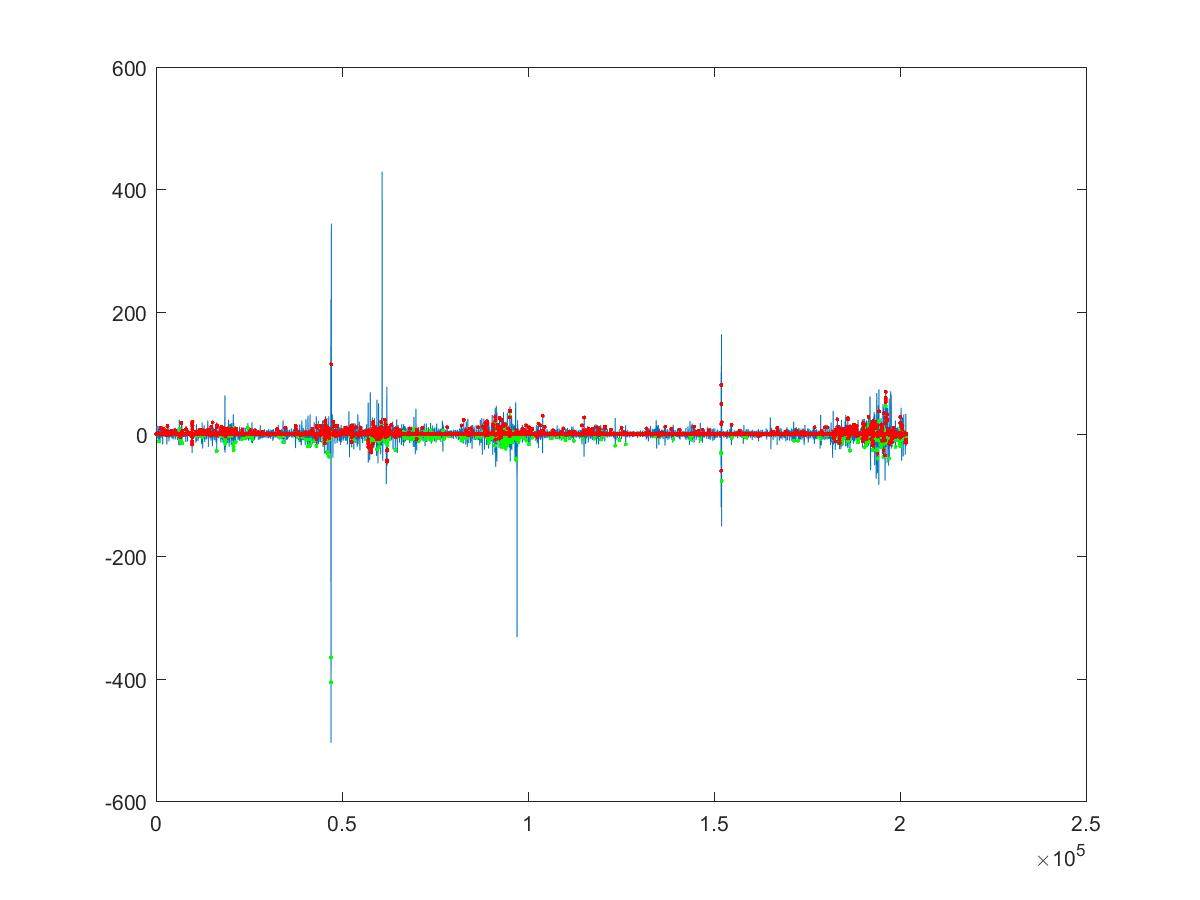
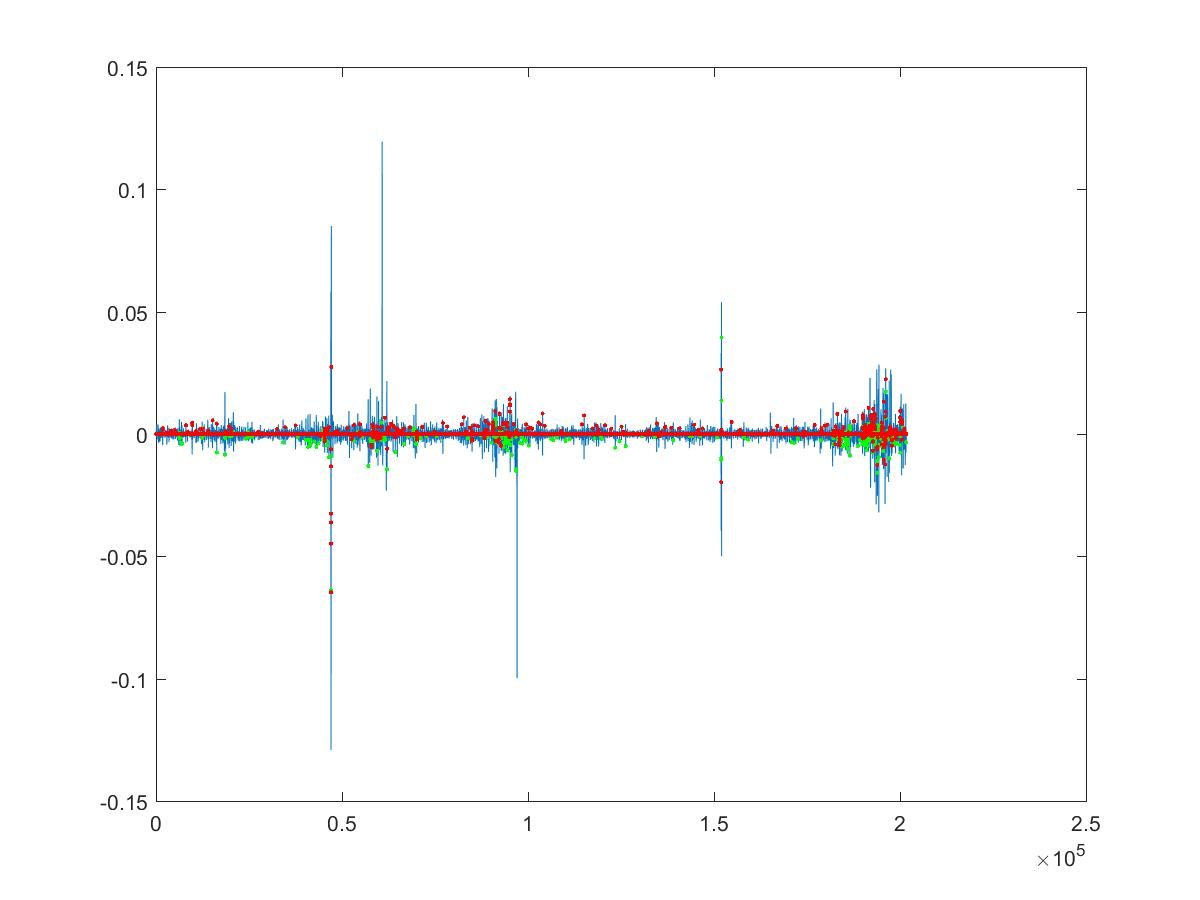
20160426

diff --git a/generate_model.m b/generate_model.m
@@ -1,10 +1,13 @@
-function [M,M0,struct_a,jgd]=generate_model(tag,x,benchmark,upper_critical,regulizer_rate,s,v1,v2)
+function [M,M0,struct_a,jgd,sharpe]=generate_model(tag,x,benchmark,upper_critical,regulizer_rate,s,v1,v2)
     n=size(tag,1);
+   
     [~,~,M0,struct_a,~]=testFeature(tag(1:n/2),x(1:n/2,:),benchmark,upper_critical,1,n/2,regulizer_rate);
     u=n/2+1;
     v=n;
     s=s(u:v,:,:);
     n=v-u+1;
+    tag(tag>100)=100;
+    tag(tag<-100)=-100;
     tag=tag(u:v);
     x=[x(u:v,:)];
     
@@ -23,6 +26,7 @@ function [M,M0,struct_a,jgd]=generate_model(tag,x,benchmark,upper_critical,regul
     %[B,BINT,R,RINT,STATS] = regress(tag,[x,ones(n,1)]);
     %pred=([x,ones(n,1)]*B);
     signal=-(pred<lower_critical)+(pred>upper_critical);
+    signal=signal.*(s(:,3,1)>900).*(s(:,3,1)<1430);
     for i=1:size(signal,1)-1
         if signal(n-i+1)~=0 && signal(n-i)~=0
             signal(n-i+1)=0;
@@ -40,6 +44,7 @@ function [M,M0,struct_a,jgd]=generate_model(tag,x,benchmark,upper_critical,regul
     tot=[long;short];
    
     signal=signal(~isnan(signal));
+    
     profitlong=sum(long>0);
     profitshort=sum(short>0);
     jpg=plot(idx,benchmark(u:v),idx,(signal<0).*benchmark(u:v),'.g',idx,(signal>0).*benchmark(u:v),'.r');
@@ -65,10 +70,13 @@ function [M,M0,struct_a,jgd]=generate_model(tag,x,benchmark,upper_critical,regul
     M(6,2)=kurtosis(short,0);
     M(6,3)=kurtosis(tot,0);
     pl=linspace(0,0,n)';
-    eps=2;
+    eps=0.0013;
     for i=2:n
         pl(i)=pl(i-1)+signal(i)*tag(i)-eps*(signal(i)~=0);
     end
+    
+    t=[floor(s(:,1,1)/10000),  floor((s(:,1,1)-floor(s(:,1,1)/10000)*10000)/100),       mod(s(:,1,1),100)];
+    t=datenum(t);
     uu=[s(31:n,7,v1);s(n-29:n,7,v1)];
     vv=[s(31:n,7,v2);s(n-29:n,7,v2)];
     jgd(:,1)=s(:,1,v1);
@@ -81,9 +89,27 @@ function [M,M0,struct_a,jgd]=generate_model(tag,x,benchmark,upper_critical,regul
     jgd(:,8)=tag;
     jgd(:,9)=uu;
     jgd(:,10)=vv;
+    jgd(:,11)=t;
     jgd=jgd(jgd(:,7)~=0,:);
     plot(idx,pl);
+    saveas(gcf,['NetValue_Signal.jpg'],'jpg');
     struct_a.pl=pl;
+    
+    
+    startDay=t(1);
+    endDay=t(n);
+    
+    
+    for i=startDay:endDay   
+       netValue_d(i-startDay+1,1)=sum((jgd(:,11)==i).*(jgd(:,8).*jgd(:,7)-eps));
+    
+    end
+    for i=startDay:endDay
+       netValue_d(i-startDay+1,2)=sum(netValue_d(1:i-startDay+1,1));
+       netValue_d(i-startDay+1,3)=sum(jgd(:,11)==i);
+    end
+    struct_a.netValue_d=netValue_d;
+    sharpe= netValue_d(endDay-startDay+1,2)/sqrt(var(netValue_d(1:endDay-startDay+1,1)))/16;
         
   %  struct_a.BINT=BINT;
 
